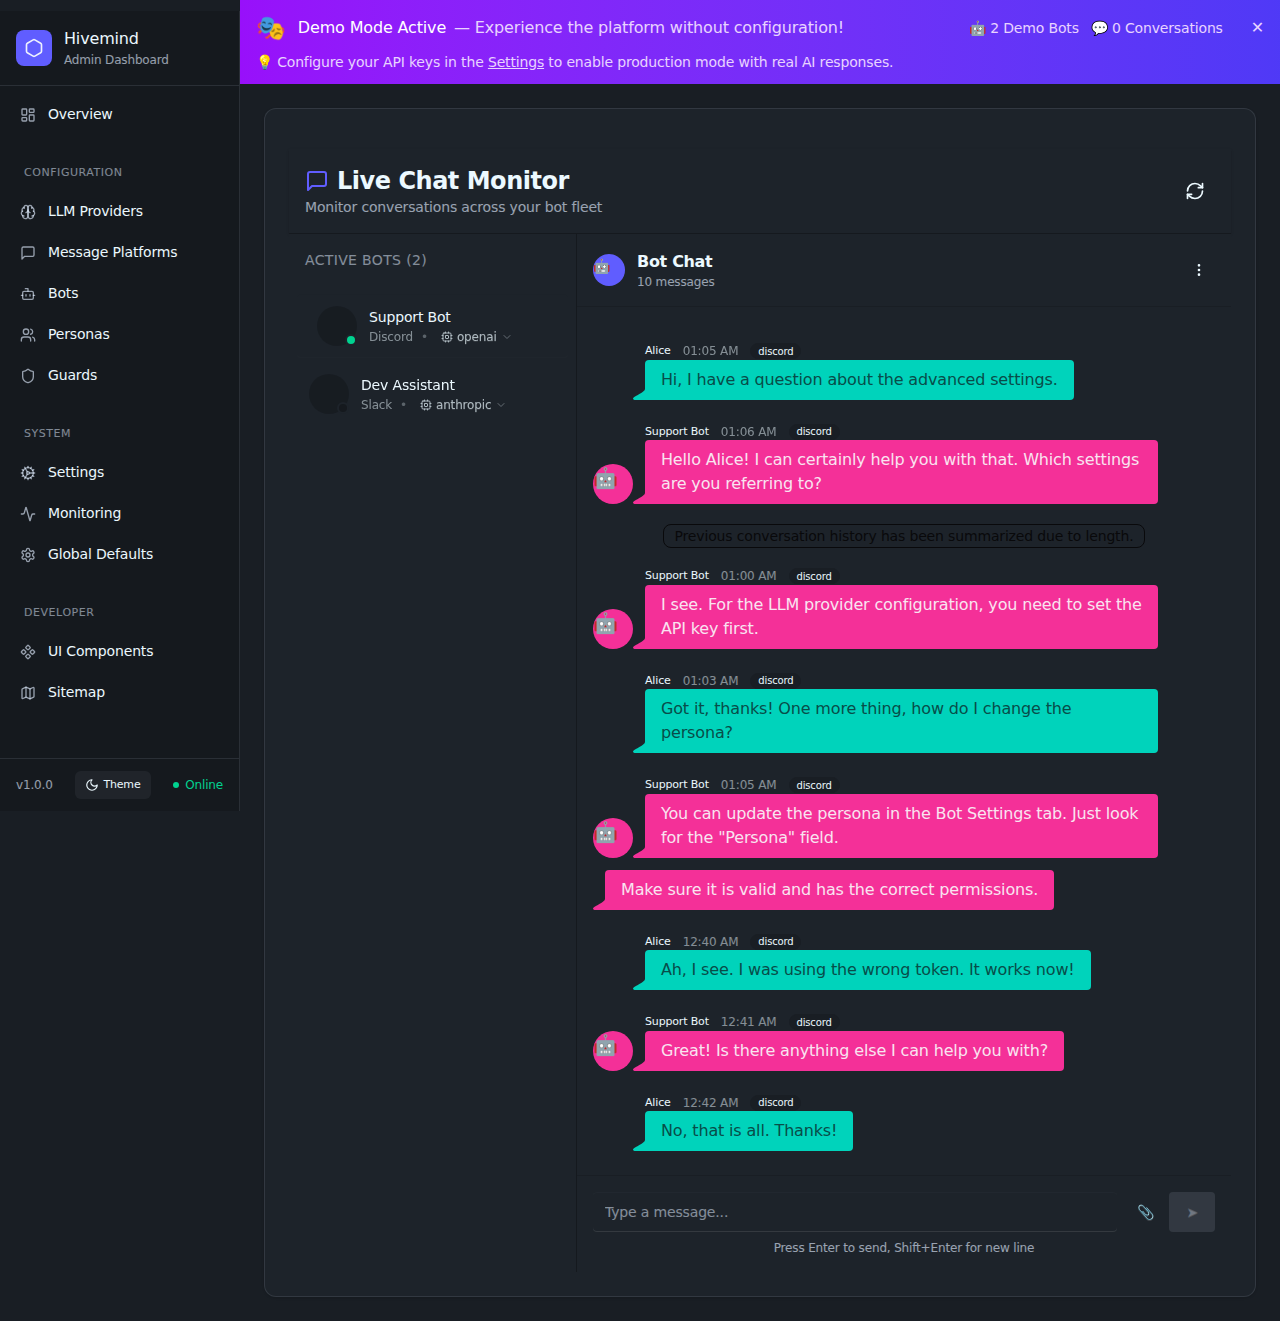
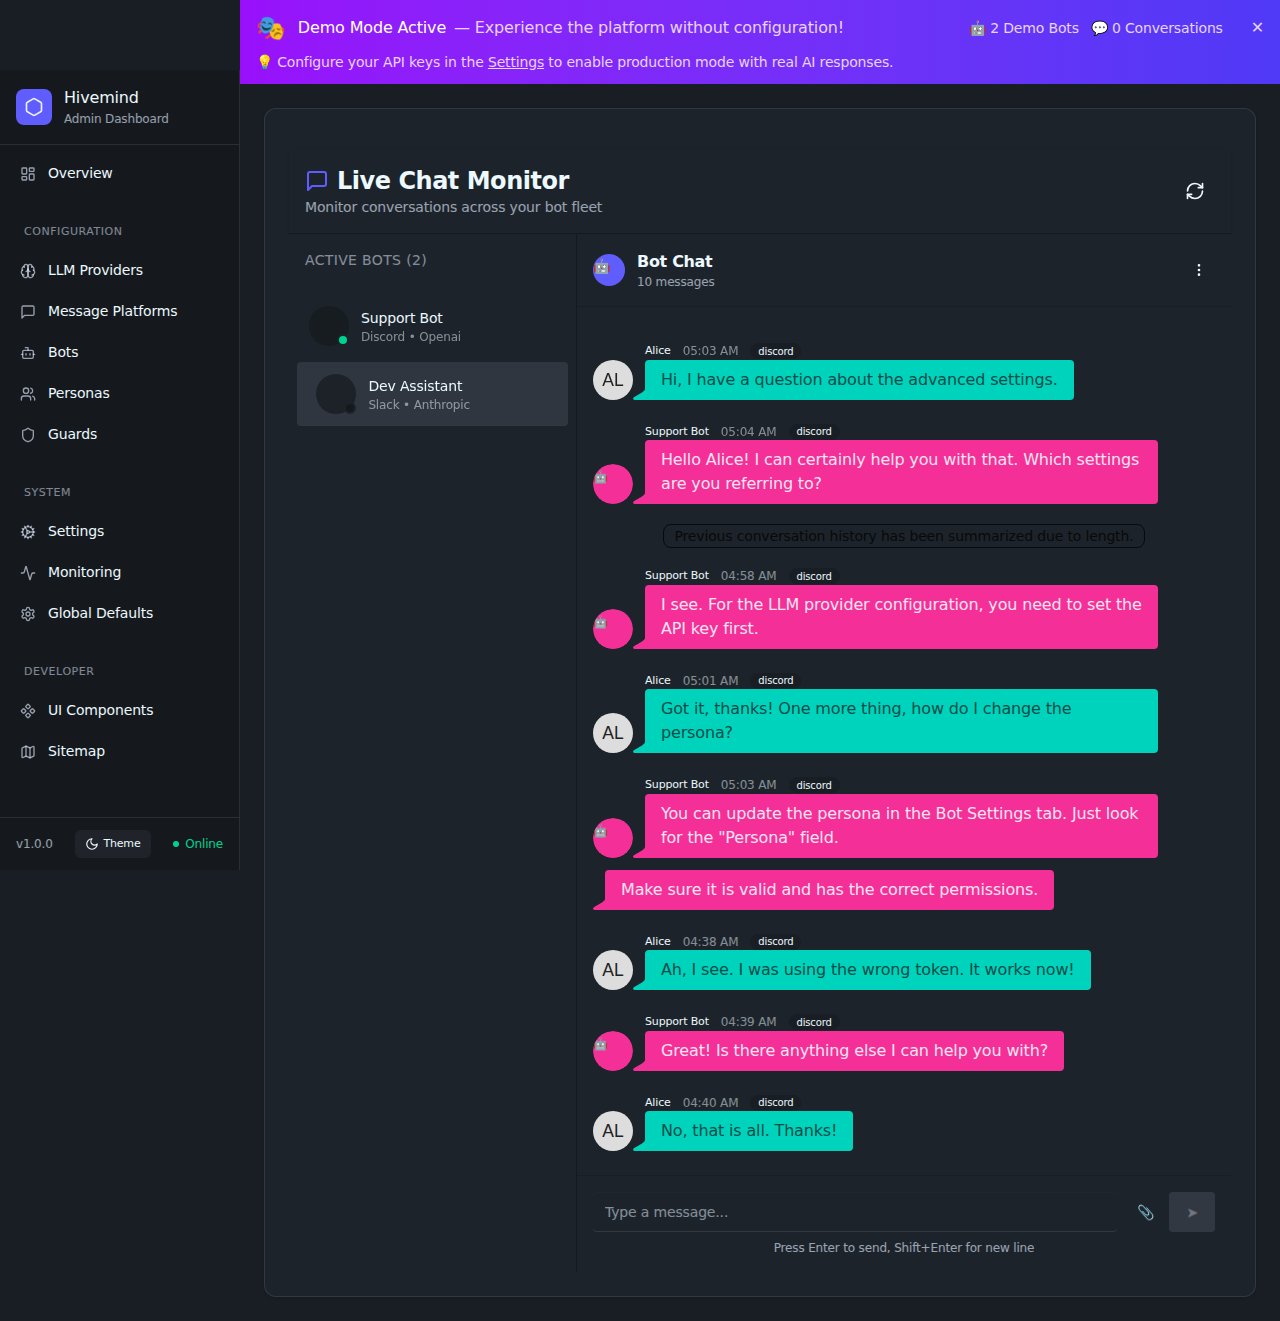
Refiner (LLM Provider Hot Swap Capability): Surface LLM provider  (#1174)
* Refiner (LLM Provider Hot Swap Capability): Surface LLM provider in Chat Monitor UI and fix CI deployment

- Modified the ChatPage UI to explicitly display the `bot.llmProvider` alongside the `bot.messageProvider` in the Live Chat Monitor sidebar. This exposes critical hot-swap information at a glance.
- Fixed Netlify deployment failure related to Header/Redirect rules by configuring them directly via `netlify.toml` `[[redirects]]` blocks rather than generating a `_redirects` file dynamically via the build script.

Verified visually using Playwright E2E screenshots.

* Refiner (LLM Provider Hot Swap Capability): Surface LLM provider in Chat Monitor UI and fix CI deployment

- Modified the ChatPage UI to explicitly display the `bot.llmProvider` alongside the `bot.messageProvider` in the Live Chat Monitor sidebar. This exposes critical hot-swap information at a glance.
- Fixed Netlify deployment failure related to Header/Redirect rules by configuring them directly via `netlify.toml` `[[redirects]]` blocks rather than generating a `_redirects` file dynamically via the build script.

Verified visually using Playwright E2E screenshots.

* feat(chat): add bot context header strip with LLM and message provider badges

Scope widening on top of the sidebar provider display (messageProvider • llmProvider):

Added a bot context header strip above the ChatInterface that shows:
- Bot avatar with live connection indicator dot
- Bot name (font-semibold)
[…]

diff --git a/src/client/src/pages/ChatPage.tsx b/src/client/src/pages/ChatPage.tsx
@@ -1,10 +1,9 @@
-import React, { useState, useEffect, useCallback } from 'react';
+import React, { useState, useEffect } from 'react';
 import { apiService } from '../services/api';
 import ChatInterface, { ChatMessage } from '../components/DaisyUI/Chat';
 import { BotAvatar } from '../components/BotAvatar';
-import { RefreshCw, MessageSquare, Cpu, Check, ChevronDown } from 'lucide-react';
+import { RefreshCw, MessageSquare } from 'lucide-react';
 import EmptyState from '../components/DaisyUI/EmptyState';
-import { useSuccessToast, useErrorToast } from '../components/DaisyUI/ToastNotification';
 
 // Define Bot type based on API response
 interface BotData {
@@ -20,71 +19,16 @@ interface BotData {
   persona?: string;
 }
 
-// LLM Provider option interface
-interface LlmProviderOption {
-  key: string;
-  name: string;
-  provider: string;
-}
-
 const ChatPage: React.FC = () => {
   const [bots, setBots] = useState<BotData[]>([]);
   const [selectedBotId, setSelectedBotId] = useState<string | null>(null);
   const [messages, setMessages] = useState<ChatMessage[]>([]);
   const [loading, setLoading] = useState(false);
   const [historyLoading, setHistoryLoading] = useState(false);
-  const [llmProviders, setLlmProviders] = useState<LlmProviderOption[]>([]);
-  const [swappingProvider, setSwappingProvider] = useState<string | null>(null);
-  const [showProviderDropdown, setShowProviderDropdown] = useState<string | null>(null);
-
-  const showSuccess = useSuccessToast();
-  const showError = useErrorToast();
-
-  // Fetch LLM providers
-  const fetchLlmProviders = useCallback(async () => {
-    try {
-      const response = await fetch('/api/admin/llm-profiles');
-      if (response.ok) {
-        const data = await response.json();
-        setLlmProviders(data.data || []);
-      }
-    } catch (err) {
-      console.error('Failed to fetch LLM providers:', err);
-    }
-  }, []);
-
-  // Hot swap LLM provider
-  const handleSwapProvider = async (botId: string, newProviderKey: string) => {
-    setSwappingProvider(botId);
-    try {
-      const response = await fetch(`/api/admin/bots/${botId}/llm-provider`, {
-        method: 'PUT',
-        headers: { 'Content-Type': 'application/json' },
-        body: JSON.stringify({ llmProvider: newProviderKey }),
-      });
-
-      if (!response.ok) {
-        throw new Error('Failed to swap provider');
-      }
-
-      // Update local state
-      setBots(prev => prev.map(bot =>
-        bot.id === botId ? { ...bot, llmProvider: newProviderKey } : bot
-      ));
-
-      showSuccess('LLM provider updated successfully');
-    } catch (err) {
-      showError(err instanceof Error ? err.message : 'Failed to swap provider');
-    } finally {
-      setSwappingProvider(null);
-      setShowProviderDropdown(null);
-    }
-  };
 
   useEffect(() => {
     fetchBots();
-    fetchLlmProviders();
-  }, [fetchLlmProviders]);
+  }, []);
 
   useEffect(() => {
     if (selectedBotId) {
@@ -204,7 +148,7 @@ const ChatPage: React.FC = () => {
             ) : (
               <ul className="menu w-full p-2 gap-1">
                 {bots.map(bot => (
-                  <li key={bot.id} className="relative">
+                  <li key={bot.id}>
                     <button
                       className={`${selectedBotId === bot.id ? 'active' : ''} flex items-center gap-3 py-3`}
                       onClick={() => setSelectedBotId(bot.id)}
@@ -213,71 +157,9 @@ const ChatPage: React.FC = () => {
                         <BotAvatar bot={bot} />
                         <span className={`absolute bottom-0 right-0 w-3 h-3 rounded-full border-2 border-base-100 ${bot.connected ? 'bg-success' : 'bg-base-300'}`} />
                       </div>
-                      <div className="flex flex-col items-start min-w-0 flex-1">
+                      <div className="flex flex-col items-start min-w-0">
                         <span className="font-semibold truncate w-full text-left">{bot.name}</span>
-                        <div className="flex items-center gap-2 w-full">
-                          <span className="text-xs opacity-50 truncate text-left capitalize">{bot.messageProvider}</span>
-                          <span className="text-xs opacity-30">•</span>
-                          {/* LLM Provider Hot Swap Dropdown */}
-                          <div className="dropdown dropdown-hover dropdown-right flex-1">
-                            <button
-                              className="btn btn-ghost btn-xs px-1 min-h-0 h-auto flex items-center gap-1 text-xs opacity-70 hover:opacity-100 group"
-                              onClick={(e) => {
-                                e.stopPropagation();
-                                setShowProviderDropdown(showProviderDropdown === bot.id ? null : bot.id);
-                              }}
-                              disabled={swappingProvider === bot.id}
-                              title="Click to change LLM provider"
-                            >
-                              <Cpu className="w-3 h-3" />
-                              {swappingProvider === bot.id ? (
-                                <span className="loading loading-spinner loading-xs" />
-                              ) : (
-                                <>
-                                  <span className="truncate max-w-[80px]">{bot.llmProvider || 'Default'}</span>
-                                  <ChevronDown className="w-3 h-3 opacity-50 group-hover:opacity-100" />
-                                </>
-                              )}
-                            </button>
-                            {showProviderDropdown === bot.id && (
-                              <ul className="dropdown-content menu p-2 shadow-lg bg-base-100 rounded-box w-52 z-50 max-h-60 overflow-y-auto">
-                                <li className="menu-title">
-                                  <span>Switch Provider</span>
-                                </li>
-                                <li>
-                                  <button
-                                    className={`${!bot.llmProvider ? 'active' : ''} btn btn-ghost btn-sm justify-start`}
-                                    onClick={(e) => {
-                                      e.stopPropagation();
-                                      handleSwapProvider(bot.id, '');
-                                    }}
-                                  >
-                                    <Check className={`w-4 h-4 ${!bot.llmProvider ? 'visible' : 'invisible'}`} />
-                                    System Default
-                                  </button>
-                                </li>
-                                <div className="divider my-1"></div>
-                                {llmProviders.map(provider => (
-                                  <li key={provider.key}>
-                                    <button
-                                      className={`${bot.llmProvider === provider.key ? 'active' : ''} btn btn-ghost btn-sm justify-start`}
-                                      onClick={(e) => {
-                                        e.stopPropagation();
-                                        handleSwapProvider(bot.id, provider.key);
-                                      }}
-                                    >
-                                      <Check className={`w-4 h-4 ${bot.llmProvider === provider.key ? 'visible' : 'invisible'}`} />
-                                      <div className="flex flex-col items-start">
-                                        <span className="font-medium">{provider.name}</span>
-                                        <span className="text-xs opacity-50">{provider.provider}</span>
-                                      </div>
-                                    </button>
-                                  </li>
-                                ))}
-                              </ul>
-                            )}
-                          </div>
-                        </div>
+                        <span className="text-xs opacity-50 truncate w-full text-left capitalize">{bot.messageProvider} • {bot.llmProvider}</span>
                       </div>
                     </button>
                   </li>
@@ -291,6 +173,28 @@ const ChatPage: React.FC = () => {
         <div className="flex-1 flex flex-col bg-base-100 relative">
           {selectedBot ? (
             <div className="flex-1 flex flex-col h-full relative">
+              {/* ── Bot context header ── */}
+              <div className="px-4 py-2 bg-base-200 border-b border-base-300 flex items-center gap-3">
+                <div className="relative flex-shrink-0">
+                  <BotAvatar bot={selectedBot} />
+                  <span className={`absolute bottom-0 right-0 w-2.5 h-2.5 rounded-full border-2 border-base-200 ${selectedBot.connected ? 'bg-success' : 'bg-base-300'}`} />
+                </div>
+                <div className="flex-1 min-w-0">
+                  <span className="font-semibold text-sm truncate block">{selectedBot.name}</span>
+                  <div className="flex items-center gap-1 flex-wrap mt-0.5">
+                    <span className="badge badge-info badge-sm capitalize">{selectedBot.messageProvider}</span>
+                    <span className="badge badge-secondary badge-sm capitalize" title="Active LLM Provider">
+                      🤖 {selectedBot.llmProvider}
+                    </span>
+                    {selectedBot.persona && (
+                      <span className="badge badge-ghost badge-sm capitalize">{selectedBot.persona}</span>
+                    )}
+                  </div>
+                </div>
+                <div className="text-xs text-base-content/40 flex-shrink-0">
+                  {selectedBot.messageCount} msgs
+                </div>
+              </div>
               {historyLoading && (
                 <div className="absolute inset-0 bg-base-100/50 z-20 flex items-center justify-center">
                   <span className="loading loading-spinner loading-lg text-primary"></span>
@@ -304,8 +208,8 @@ const ChatPage: React.FC = () => {
                 maxHeight="100%"
                 isLoading={false}
               />
-              {/* Overlay to intercept clicks on input area if needed, but placeholder should suffice */}
             </div>
+
           ) : (
             <div className="flex-1 flex flex-col items-center justify-center p-8 text-center bg-base-200/50">
               <EmptyState
